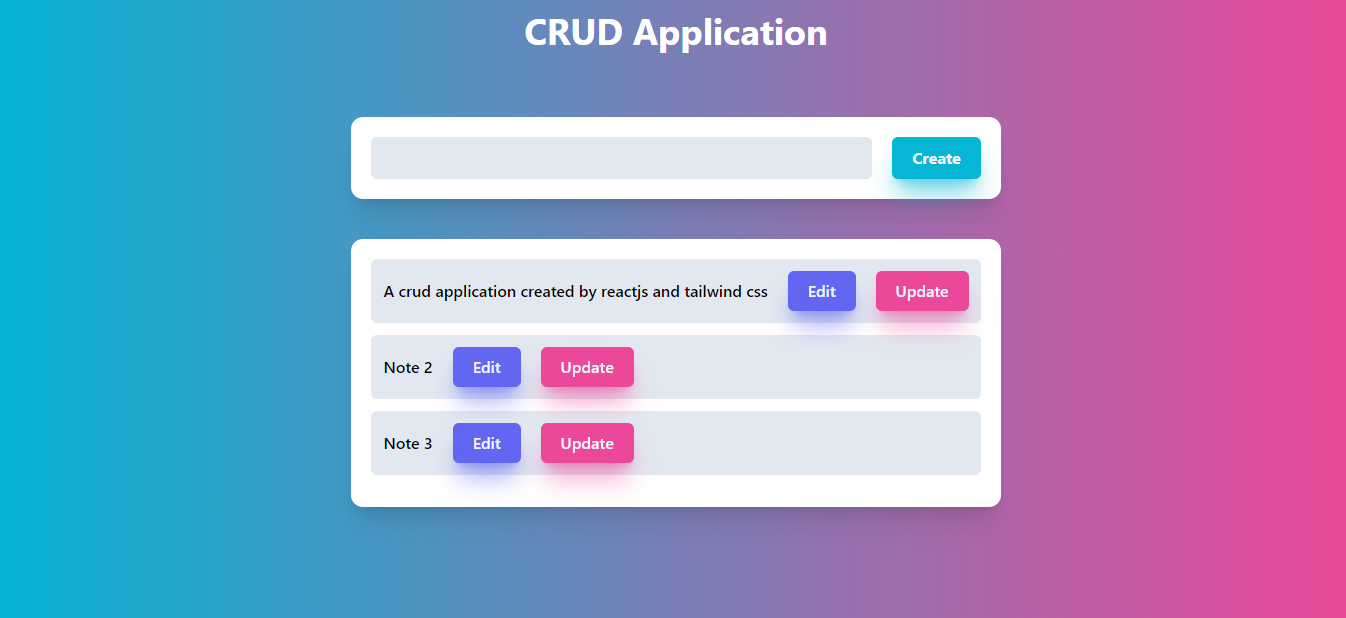
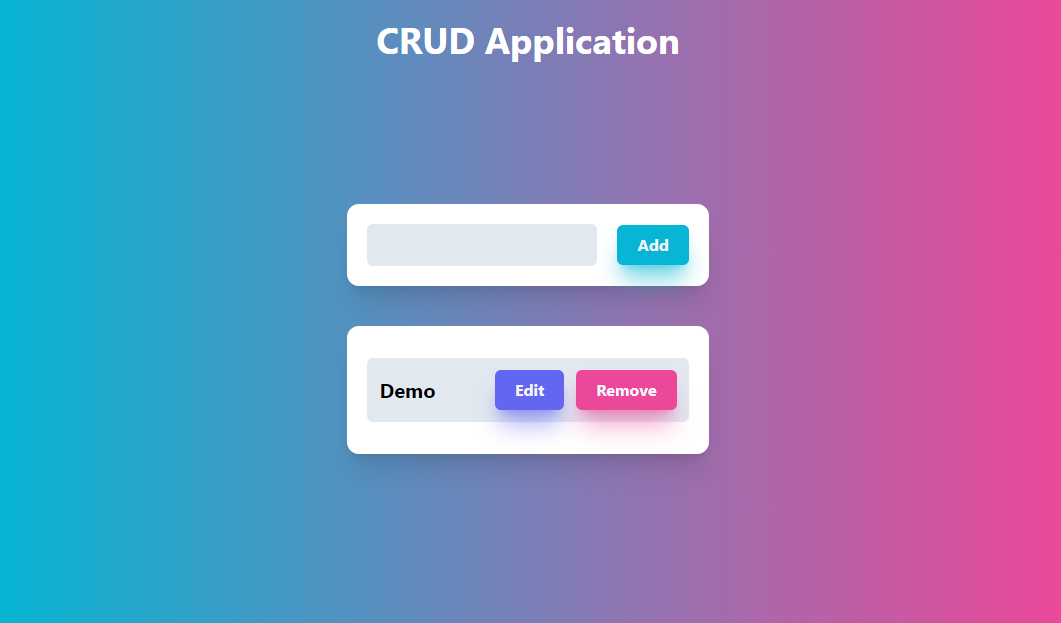
simple crud application using useState hook

Changed region(s): [[0.2488, 0.1845, 0.7465, 0.8301], [0.3421, 0.0307, 0.6532, 0.0922]]

diff --git a/src/App.js b/src/App.js
@@ -1,52 +1,120 @@
+import { useState } from "react";
 function App() {
+  const [noteTitle, setNoteTitle] = useState("");
+  const [notes, setNotes] = useState([
+    {
+      id: Date.now() + "",
+      title: "Demo",
+    },
+  ]);
+  const [editMode, setEditMode] = useState(false);
+  const [editableNote, setEditableNote] = useState(null);
+
+  const createHandler = (e) => {
+    e.preventDefault();
+    if (!noteTitle) {
+      alert("Please type a valid text!");
+      return;
+    }
+    setNotes([
+      ...notes,
+      {
+        id: Date.now() + "",
+        title: noteTitle,
+      },
+    ]);
+    setNoteTitle("");
+  };
+
+  const removeHandler = (noteId) => {
+    const newNotes = notes.filter((note) => note.id !== noteId);
+    setNotes(newNotes);
+  };
+
+  const editHandler = (noteId) => {
+    setEditMode(true);
+    const toBeEditable = notes.find((note) => note.id === noteId);
+    setEditableNote(toBeEditable);
+    setNoteTitle(toBeEditable.title);
+  };
+
+  const updateHandler = (e) => {
+    e.preventDefault();
+    if (!noteTitle) {
+      alert("Please type a valid text!");
+    }
+    const newNotes = notes.filter((note) => {
+      if (note.id === editableNote.id) {
+        note.title = noteTitle;
+      }
+      return note;
+    });
+    setNotes(newNotes);
+    setNoteTitle("");
+    setEditMode(false);
+    setEditableNote(null);
+  };
+
   return (
     <div className="h-screen  bg-gradient-to-r from-cyan-500 to-pink-500">
-      {/* title  */}
-      <h1 className="text-center text-4xl font-bold py-3 text-white">
+      <h1 className="text-center text-4xl font-bold py-5 text-white">
         CRUD Application
       </h1>
       <div className="flex items-center justify-center min-h-[500px]">
-        <form>
-          {/* input area  */}
-          <div className="mb-10 bg-white shadow-xl p-5 rounded-xl text-center font-bold flex gap-5">
+        <form
+          onSubmit={(e) => {
+            editMode ? updateHandler(e) : createHandler(e);
+          }}
+        >
+          <div className="mb-10 bg-white shadow-xl p-5 rounded-xl text-center font-bold flex justify-center items-center gap-5">
             <input
               type="text"
+              value={noteTitle}
+              onChange={(e) => setNoteTitle(e.target.value)}
               className="p-2 rounded-md bg-slate-200 w-full border border-slate-200 focus:border-cyan-500 outline-0"
             />
-            <button className="btn bg-cyan-500 shadow-cyan-500/50">
-              Create
+            <button
+              type="submit"
+              className="btn bg-cyan-500 shadow-cyan-500/50"
+            >
+              {editMode ? "Update" : "Add"}
             </button>
           </div>
 
-          {/* output area */}
-          <div className="bg-white shadow-xl p-5 rounded-xl text-center font-semibold max-h-[300px]">
-            <div className="bg-slate-200 flex gap-5 items-center rounded-md p-3 mb-3">
-              <p>A crud application created by reactjs and tailwind css</p>
-              <button className="btn  bg-indigo-500 shadow-indigo-500/50">
-                Edit
-              </button>
-              <button className="btn  bg-pink-500 shadow-pink-500/50">
-                Update
-              </button>
-            </div>
-
-            <div className="bg-slate-200 flex gap-5 items-center rounded-md p-3 mb-3">
-              <p>Note 2</p>
-              <button className="btn  bg-indigo-500 shadow-indigo-500/50">
-                Edit
-              </button>
-              <button className="btn  bg-pink-500 shadow-pink-500/50">
-                Update
-              </button>
-            </div>
-            <div className="bg-slate-200 flex gap-5 items-center rounded-md p-3 mb-3">
-              <p>Note 3</p>
-              <button className="btn bg-indigo-500 shadow-indigo-500/50">
-                Edit
-              </button>
-              <button className="btn bg-pink-500 shadow-pink-500/50">
-                Update
-              </button>
+          <div
+            className={`bg-white shadow-xl rounded-xl text-center font-bold p-5  ${
+              notes.length === 0 ? "hidden" : "block"
+            }`}
+          >
+            <div
+              className={` max-h-[300px] ${
+                notes.length >= 4 && "overflow-y-scroll"
+              }`}
+            >
+              {notes.map((note) => (
+                <div
+                  key={note.id}
+                  className="bg-slate-200 flex gap-5 items-center justify-between rounded-md p-3 my-3"
+                >
+                  <p className="text-xl">{note.title}</p>
+                  <div className="flex gap-3">
+                    <button
+                      onClick={() => editHandler(note.id)}
+                      type="button"
+                      className="btn  bg-indigo-500 shadow-indigo-500/50"
+                    >
+                      Edit
+                    </button>
+                    <button
+                      onClick={() => removeHandler(note.id)}
+                      type="button"
+                      className="btn  bg-pink-500 shadow-pink-500/50"
+                    >
+                      Remove
+                    </button>
+                  </div>
+                </div>
+              ))}
             </div>
           </div>
         </form>
